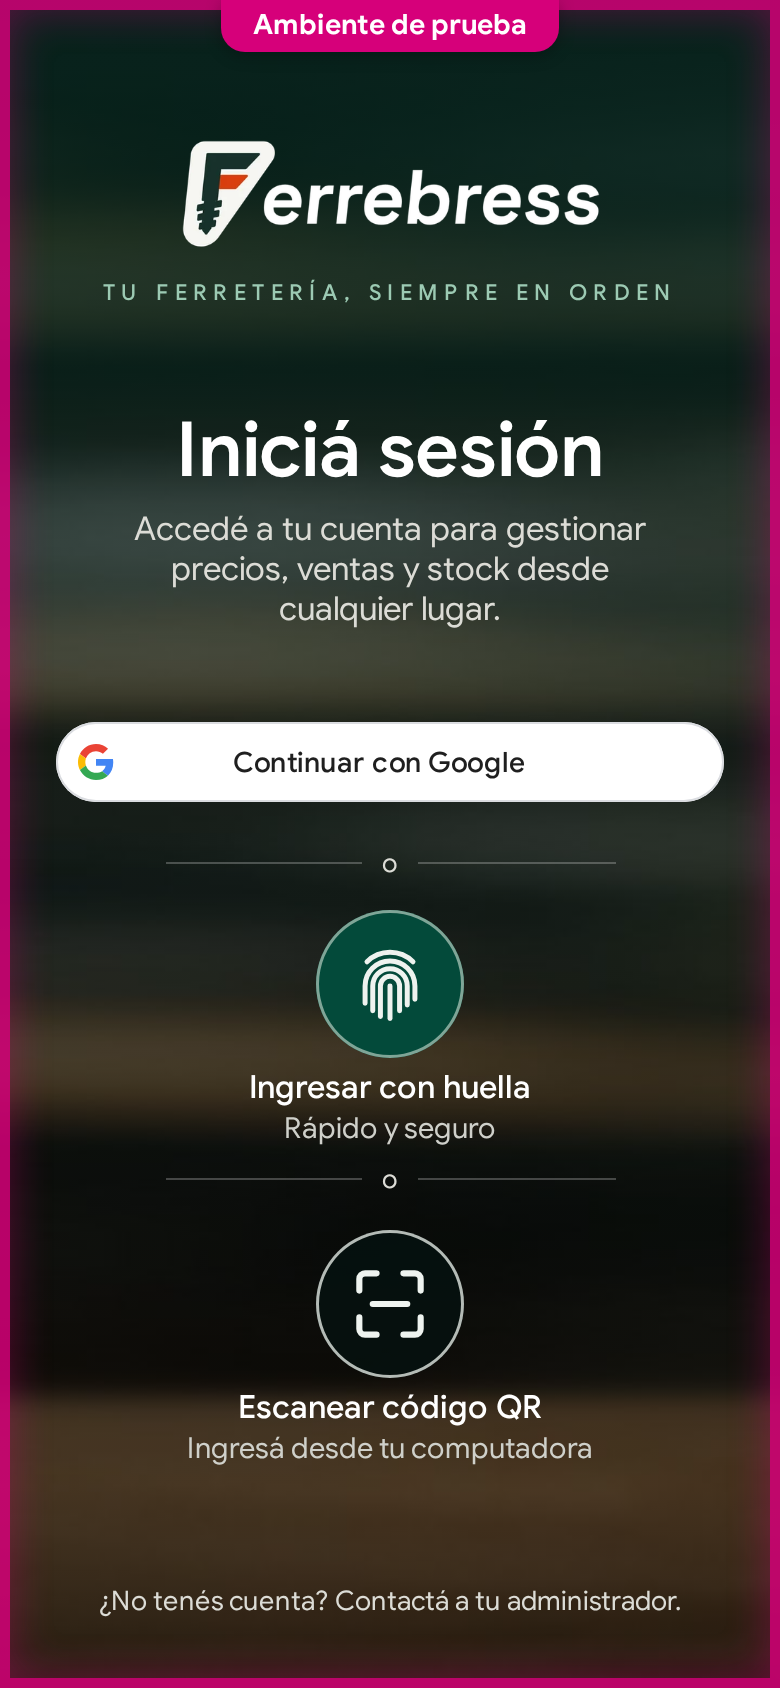
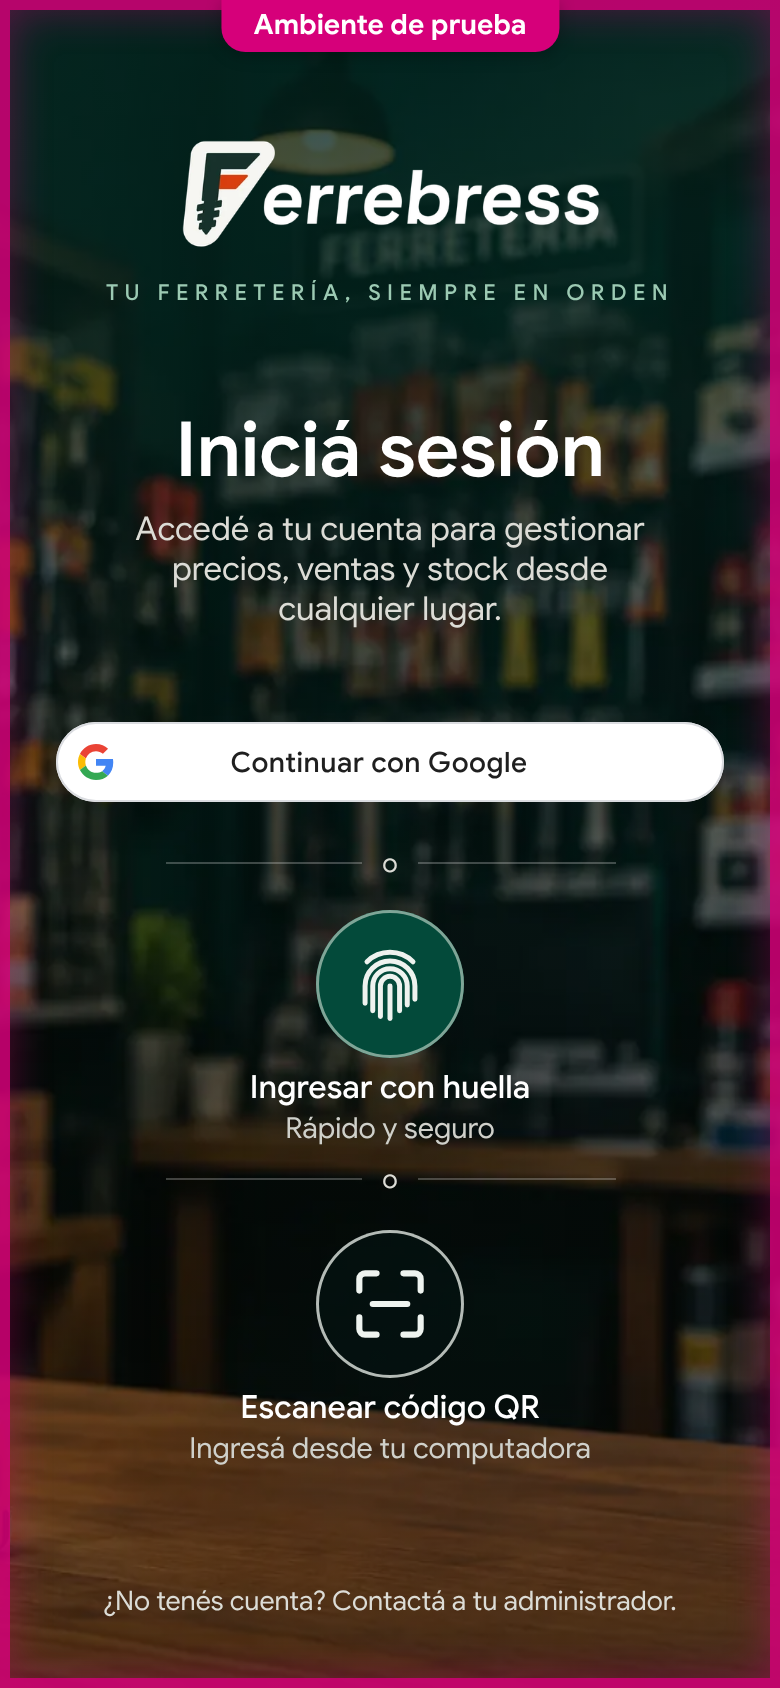
Maquetas: la entrada oscura del celular con la foto que pasó Carlos
Carlos pasó una foto de una ferretería, desenfocada como la quiere, en lugar de la del fondo de la
computadora estirada. Va achicada a 780 × 1170 en WebP (33 kB), porque el celular la baja con
datos, y el degradado de encima es más claro para que se vea la ferretería.

Claude-Session: https://claude.ai/code/session_01BmbhiYJAfQvWshUgYzn7JL

diff --git a/docs/design/mockups/sign-in-phone-dark/final/sign-in.css b/docs/design/mockups/sign-in-phone-dark/final/sign-in.css
@@ -331,8 +331,8 @@ body[data-state="intentos"] #notice { display: flex; }
   /* La foto de la ferretería, recortada y oscurecida, y encima el degradado que deja leer. */
   .scene-bg { position: absolute; inset: 0; z-index: -1; max-width: none;
     background:
-      linear-gradient(180deg, rgb(3 34 28 / 0.88) 0%, rgb(3 32 26 / 0.8) 20%, rgb(3 26 22 / 0.62) 30%, rgb(3 18 15 / 0.52) 52%, rgb(6 8 6 / 0.6) 74%, rgb(10 6 3 / 0.58) 88%, rgb(4 3 2 / 0.74) 100%),
-      #1d1a14 url("background-phone.jpg") center / cover no-repeat; }
+      linear-gradient(180deg, rgb(3 34 28 / 0.82) 0%, rgb(3 32 26 / 0.66) 20%, rgb(3 26 22 / 0.5) 32%, rgb(3 18 15 / 0.4) 52%, rgb(6 8 6 / 0.46) 74%, rgb(10 6 3 / 0.46) 88%, rgb(4 3 2 / 0.66) 100%),
+      #1d1a14 url("background-phone.webp") center / cover no-repeat; }
 
   /* Arriba a la derecha, solo sin conexión. */
   .status { position: absolute; top: 34px; right: 14px; z-index: 2; width: auto; }
@@ -386,7 +386,7 @@ body[data-state="intentos"] #notice { display: flex; }
   /* Entrando: sobre la misma foto oscura, en blanco. */
   .entering { background: var(--oscuro-fondo); color: var(--oscuro-texto); }
   .entering::before { content: ""; position: fixed; inset: 0; z-index: -1;
-    background: linear-gradient(180deg, rgb(3 30 25 / 0.86), rgb(3 16 14 / 0.7) 60%, rgb(4 4 3 / 0.8)), url("background-phone.jpg") center / cover no-repeat; }
+    background: linear-gradient(180deg, rgb(3 30 25 / 0.86), rgb(3 16 14 / 0.7) 60%, rgb(4 4 3 / 0.8)), url("background-phone.webp") center / cover no-repeat; }
   .entering { isolation: isolate; }
   .entering-logo { width: 209px; }
   .entering h2 { font-weight: 600; color: var(--oscuro-texto); }

diff --git a/docs/design/mockups/sign-in-phone-dark/final/changes.md b/docs/design/mockups/sign-in-phone-dark/final/changes.md
@@ -62,11 +62,11 @@ Arriba a la izquierda, las herramientas de la maqueta: el momento de Google (en 
   «Entrar».
 - **Sin «Sin contraseñas»** ni las tres ventajas, ni la onda naranja y verde del pie. Queda «¿No
   tenés cuenta? Contactá a tu administrador.», como texto: no lleva a ningún lado.
-- **La foto es la del fondo de la computadora** (`background-phone.jpg`, 28 kB), no la de la
-  referencia: de esa foto solo se ve una franja angosta de estantes y el mostrador entre las formas
-  verdes y blancas. Se tomó la franja de los estantes estirada a lo ancho y el mostrador abajo,
-  desenfocada y oscurecida, y encima el degradado. Se lee como estantes de madera desenfocados con
-  el mostrador abajo, no como la ferretería nítida de la referencia (ver «Lo que queda por decidir»).
+- **La foto es la que pasó Carlos**: una ferretería con estantes y el mostrador de madera adelante,
+  desenfocada (así la quiere: que se lea como fondo, no como foto nítida). Se achicó a 780 × 1170 px
+  en WebP (`background-phone.webp`, 33 kB), lo justo para un celular con pantalla densa, porque se
+  baja con datos. Encima va el degradado, más claro que con la foto anterior para que se vea la
+  ferretería, y los textos siguen leyéndose bien.
 
 ## Lo que se mantiene de la entrada aprobada
 
